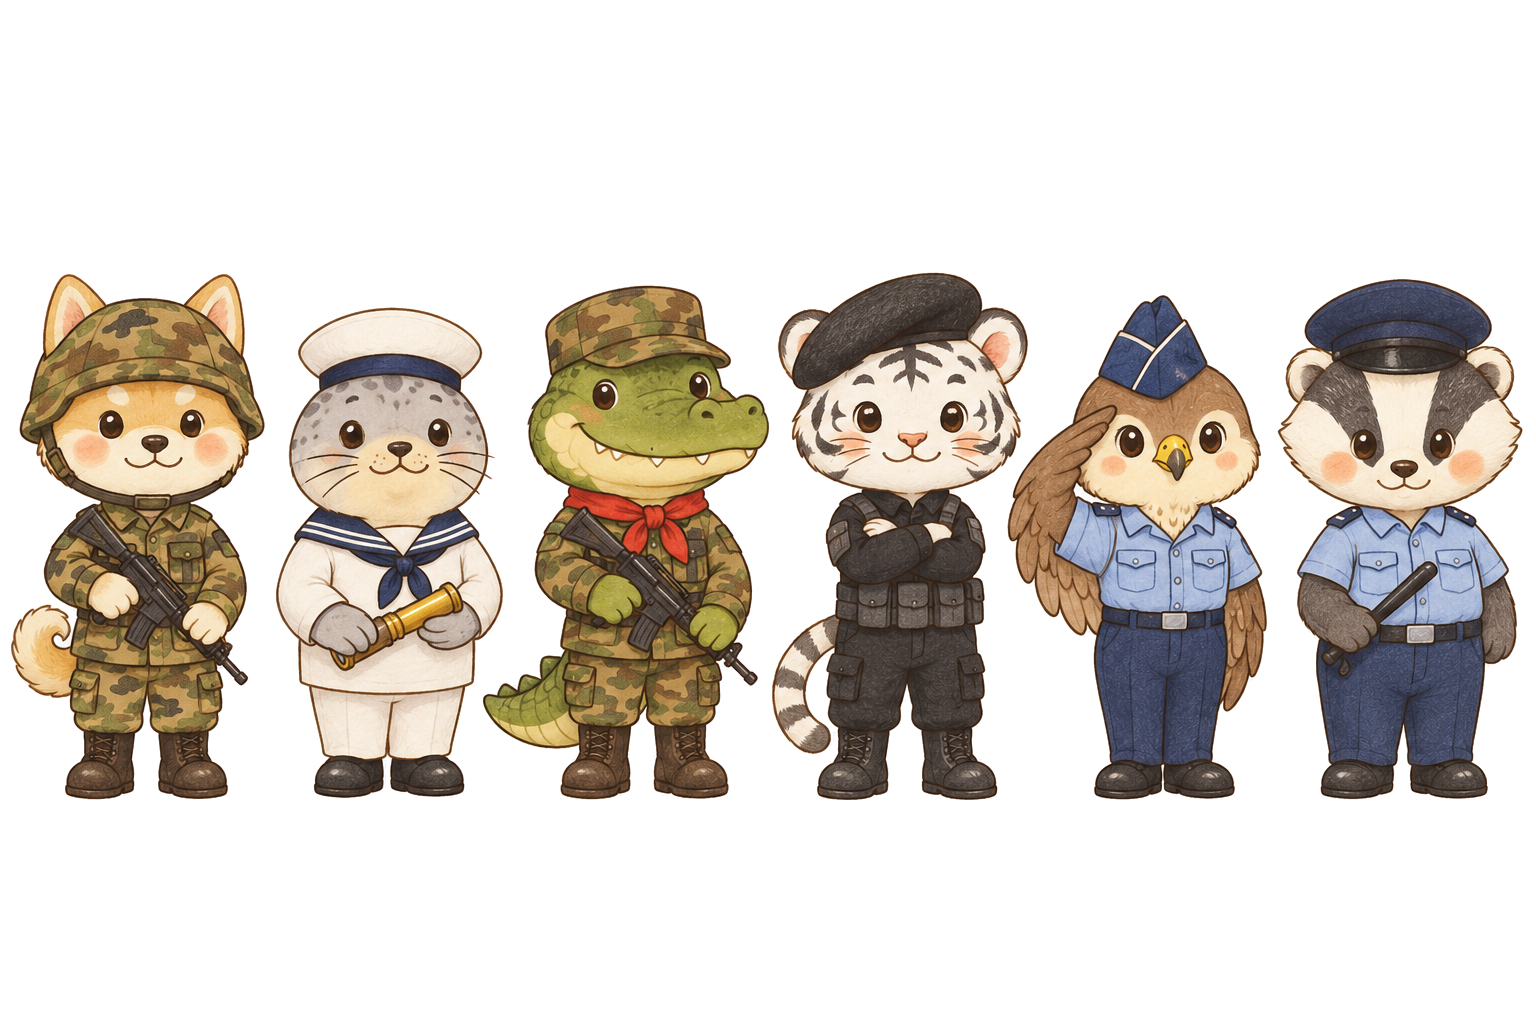
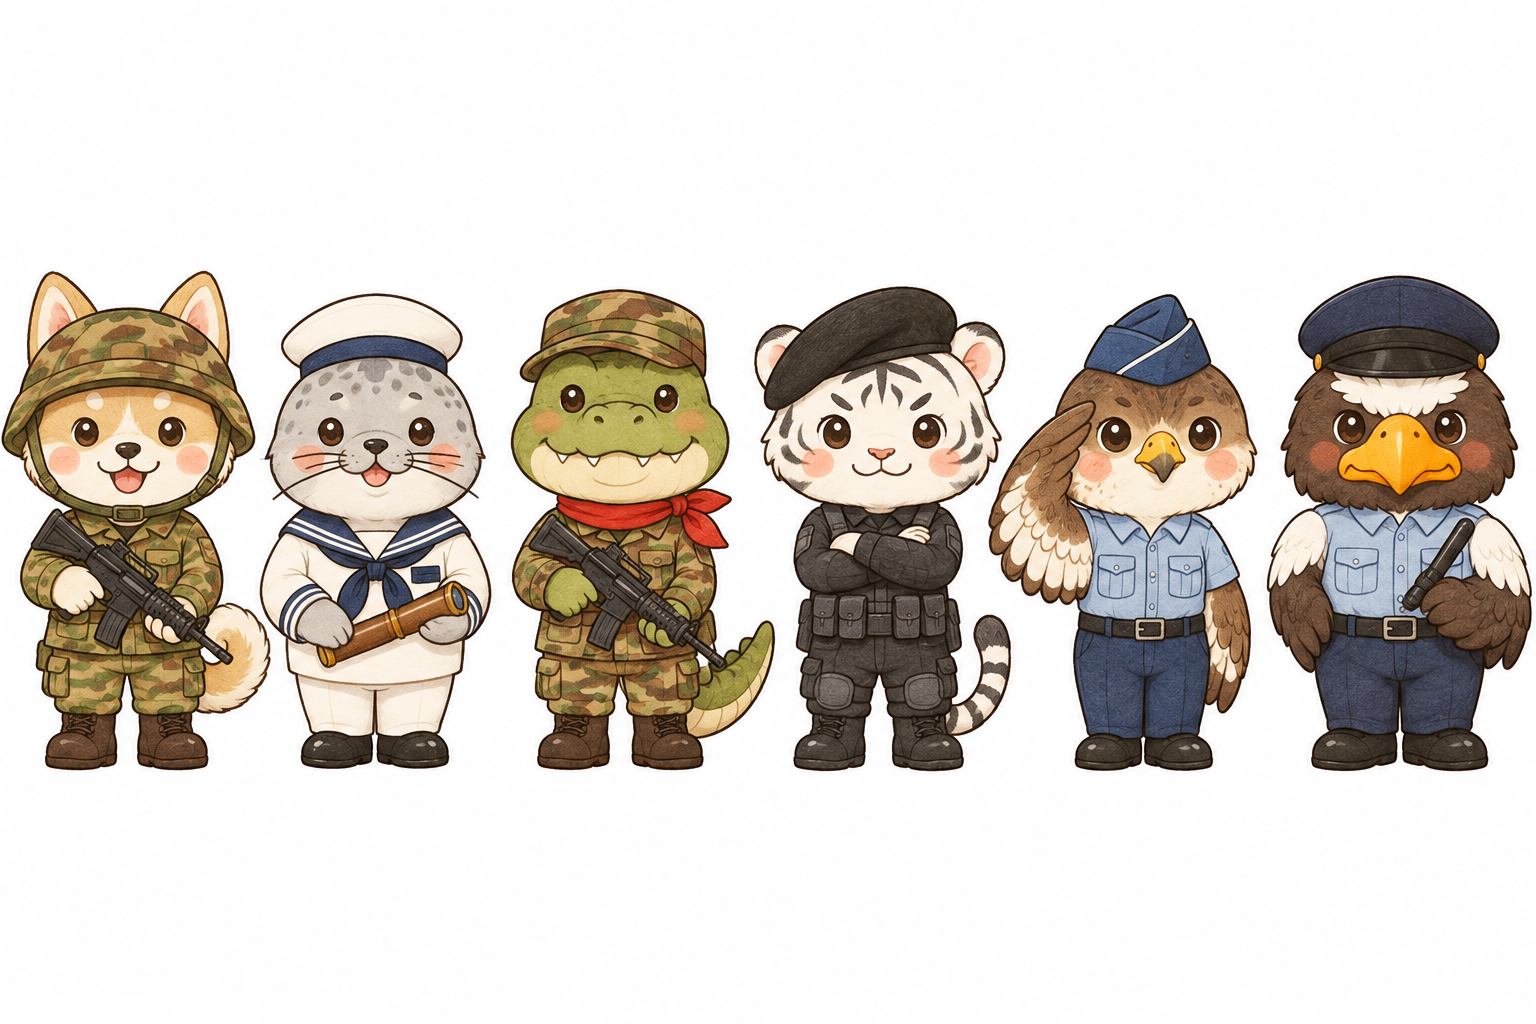
동물 유닛 시안: 의경을 참수리로 다시 그림 (적용하지 않음)
Claude-Session: https://claude.ai/code/session_017VP8BVWohypkUvNmKY1rp7

Changed region(s): [[0.0, 0.25, 1.0, 0.7812]]

diff --git a/art/sian/animal/jobs.py b/art/sian/animal/jobs.py
@@ -1,4 +1,4 @@
-# 동물 유닛 시안(적용하지 않음): 육군 = 땅개(강아지), 의경 = 오소리. 군별 한 줄 세우기 1장 + 게임 화면에 얹어 볼 시트 4장
+# 동물 유닛 시안(적용하지 않음): 육군 = 땅개(강아지), 의경 = 참수리. 군별 한 줄 세우기 1장 + 게임 화면에 얹어 볼 시트 4장
 import json, os, sys
 sys.path.insert(0, '/home/user/soldier-random-defense/tools')
 import soft_jobs as S
@@ -10,7 +10,7 @@ HEAD = ("A game sprite sheet with exactly four separate chibi character illustra
         "All four figures are the same {who}, standing upright on two legs like a person, with the same cute face. It is clearly an animal (animal head, ears, muzzle, fur, tail), not a human. ")
 DOG = ('cute anthropomorphic puppy soldier: a fluffy tan-and-cream Korean Jindo-style puppy with pointy ears poking out through the helmet, a black button nose, a cream muzzle and a curled-up fluffy tail',
        S.BR['army'][1])
-BADGER = ('cute anthropomorphic badger police officer: a chubby little badger with gray fur, a white face with two bold black stripes running over the eyes to the small round ears, a black button nose and a short stubby tail',
+BADGER = ("cute anthropomorphic Steller's sea eagle police officer: a chubby little sea eagle chick with dark chocolate-brown feathers, a white forehead patch, white shoulder feathers, a short white tail, a very big bright orange-yellow hooked beak, yellow feet, and feathered wings used like arms and hands",
           S.BR['police'][1])
 def sheet(name, who, outfit, a, b):
     add(name, HEAD.format(who=who) + f"The character wears {outfit}. "
@@ -28,6 +28,6 @@ add('lineup.png', "A character lineup concept sheet with exactly six separate ch
     f"3) a small green crocodile with a toothy friendly grin and a thick tail, wearing {S.BR['marine'][1]}, holding a black rifle at rest. "
     f"4) a white tiger cub with black stripes and a long striped tail, wearing {S.BR['sf'][1]}, arms crossed with a confident look. "
     f"5) a young brown falcon with a cream chest, a small hooked yellow beak and folded wings, wearing {S.BR['air'][1]}, saluting with one wing. "
-    f"6) a chubby gray badger with a white face and two bold black stripes over the eyes, wearing {S.BR['police'][1]}, holding a short black police baton. "
+    f"6) a chubby Steller's sea eagle chick with dark chocolate-brown feathers, a white forehead patch, white shoulder feathers and a very big bright orange-yellow hooked beak, noticeably bigger-beaked and darker than the falcon, wearing {S.BR['police'][1]}, holding a short black police baton in one wing. "
     "Nothing overlapping, nothing touching the image edges. No insignia, no emblems, no flags, no letters, no numbers, original character design.", 1536, 1024)
 json.dump(jobs, open(os.path.dirname(os.path.abspath(__file__)) + '/jobs.json', 'w'), ensure_ascii=False, indent=1); print(len(jobs))

diff --git a/docs/HANDOFF.md b/docs/HANDOFF.md
@@ -5,8 +5,8 @@
 
 ## 2026-11-20 — 동물 유닛 시안 (적용하지 않음)
 **경위**: 사용자 — "캐릭터 유닛들을 동물로 바꾸면 어떻게 될까? 육군은 땅개, 의경은 오수리 이렇게. 적용은 말고 시안으로만 먼저 보여 줘".
-**직접 한 작업**: Codex로 시안 5장(`art/sian/animal/raw/`). 군별 6종 한 줄(`lineup.png`: 육군 강아지 · 해군 물범 · 해병대 악어 · 특공대 백호 · 공군 매 · 의경 오소리 — 육군·의경 말고는 Claude가 임의로 고른 것), 육군 강아지 4병과, 의경 오소리 4병과(각 대기·공격). 실제 전장에 얹은 모습은 `art/sian/animal/mock-field.jpg`(브라우저가 그림을 달라고 할 때만 시안을 대신 주는 방식 `mock.cjs` — `www/`는 바뀌지 않았다).
-**정해지지 않은 것**: "오수리"를 오소리로 읽었다(경찰 상징 참수리일 수도 있다 — 사용자 확인 필요). 적용 여부, 나머지 군의 동물, 계급대별 차림(지금 사람 그림은 계급대 5벌), 용사·스킨·타이틀 그림을 어떻게 할지.
+**직접 한 작업**: Codex로 시안 5장(`art/sian/animal/raw/`). 군별 6종 한 줄(`lineup.png`: 육군 강아지 · 해군 물범 · 해병대 악어 · 특공대 백호 · 공군 매 · 의경 참수리 — 육군·의경 말고는 Claude가 임의로 고른 것), 육군 강아지 4병과, 의경 참수리 4병과(각 대기·공격). 처음에는 "오수리"를 오소리로 읽고 그렸다가 사용자가 "참수리가 맞다"고 해 다시 그렸다(오소리 그림은 지웠다). 실제 전장에 얹은 모습은 `art/sian/animal/mock-field.jpg`(브라우저가 그림을 달라고 할 때만 시안을 대신 주는 방식 `mock.cjs` — `www/`는 바뀌지 않았다).
+**정해지지 않은 것**: 적용 여부, 공군 매와 의경 참수리가 둘 다 새라 비슷해 보이는 문제(공군을 다른 동물로 바꿀지), 나머지 군의 동물, 계급대별 차림(지금 사람 그림은 계급대 5벌), 용사·스킨·타이틀 그림을 어떻게 할지.
 **적용한다면**: 군별·계급대 그림 약 150장 + 용사 6 + 스킨 20 + 타이틀을 다시 그려야 한다(사용자 ChatGPT 한도). 지시문은 `art/sian/animal/jobs.py`의 방식(`tools/soft_jobs.py`의 복장·동작 문구에 동물 설명만 바꿔 끼움)을 쓰면 된다.
 
 ## 2026-11-20 — 전장에서 캐릭터가 잘 보이게 (실제 기기 제보)
